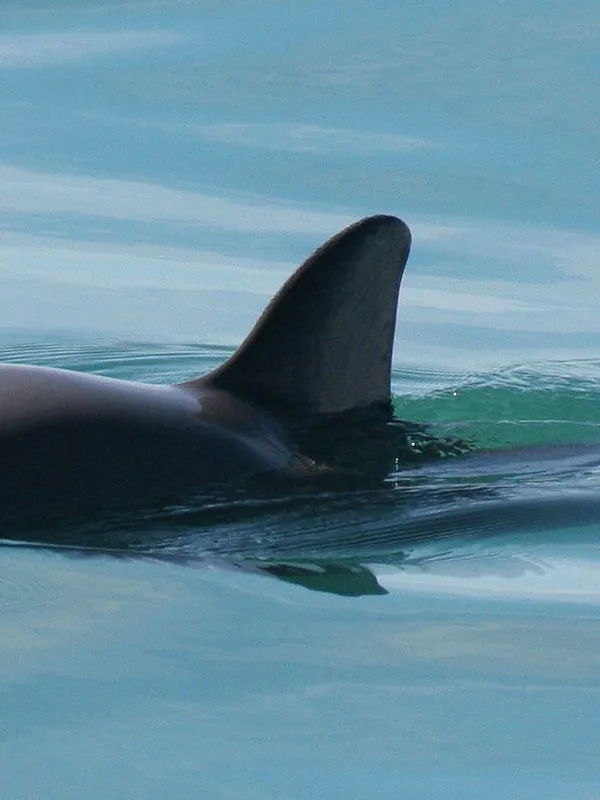
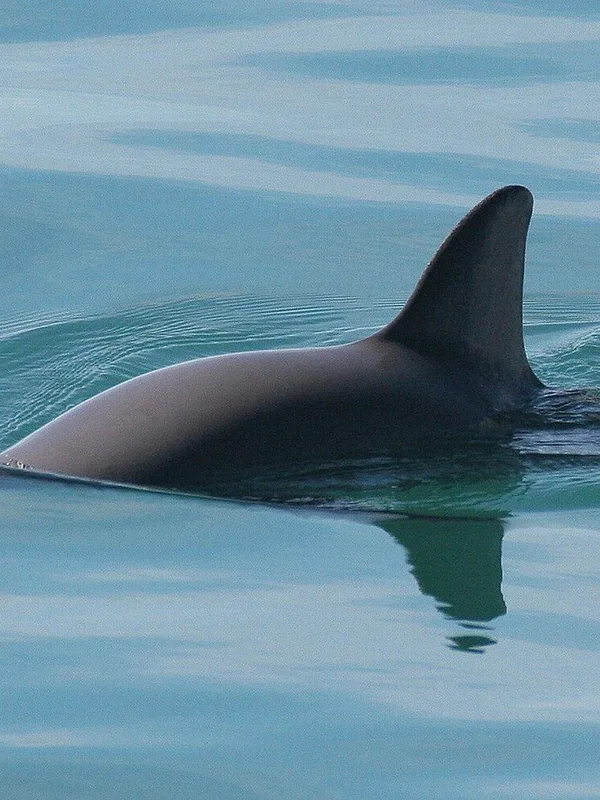
Collection : dos Mexique pour les cartes de la Série 2 ; nouvelle photo du vaquita
- la carte retournée dans la fiche (vue 3D) montre le dos de sa série :
  le Mexique pour la Série 2, au lieu du dos de la Série 1 ;
- vaquita : la photo la plus nette de Commons (Paula Olson, NOAA), le dos
  et l'aileron avec leur reflet, cadrés sur l'aileron.

Claude-Session: https://claude.ai/code/session_013GQWMUxTXwh4LhHaY6gcXw

diff --git a/src/components/Spin3D.tsx b/src/components/Spin3D.tsx
@@ -2,6 +2,9 @@ import { useEffect, useRef, type PointerEvent } from 'react';
 import type { CardFace, OwnedCard } from '../engine/types';
 import { Card, type CardSize } from './Card';
 import { CardBack } from './CardBack';
+import { CardBackMexique } from './CardBackMexique';
+import { ATHLETES_BY_ID } from '../data/athletes';
+import { serieOf } from '../engine/series';
 import { sfx } from '../audio/sfx';
 
 // Carte en vrai volume : on la fait tourner sur elle-même au doigt ou à la souris (avec de l'élan),
@@ -18,6 +21,8 @@ interface Spin3DProps {
 }
 
 export function Spin3D({ card, size = 'lg', locked = false }: Spin3DProps) {
+  const athlete = ATHLETES_BY_ID[card.athleteId];
+  const mexique = !!athlete && serieOf(athlete) === 2;
   const stage = useRef<HTMLDivElement>(null);
   const object = useRef<HTMLDivElement>(null);
   const state = useRef({
@@ -153,9 +158,8 @@ export function Spin3D({ card, size = 'lg', locked = false }: Spin3DProps) {
         {Array.from({ length: THICKNESS }, (_, i) => (
           <div key={i} className="spin3d__layer" style={{ transform: `translateZ(${(i - (THICKNESS - 1) / 2) * 0.7}px)` }} />
         ))}
-        <div className="spin3d__face spin3d__back">
-          <CardBack />
-        </div>
+        {/* le dos de la série de la carte (le Mexique pour la Série 2) */}
+        <div className="spin3d__face spin3d__back">{mexique ? <CardBackMexique /> : <CardBack />}</div>
       </div>
       <div className="spin3d__shadow" aria-hidden="true" />
     </div>
